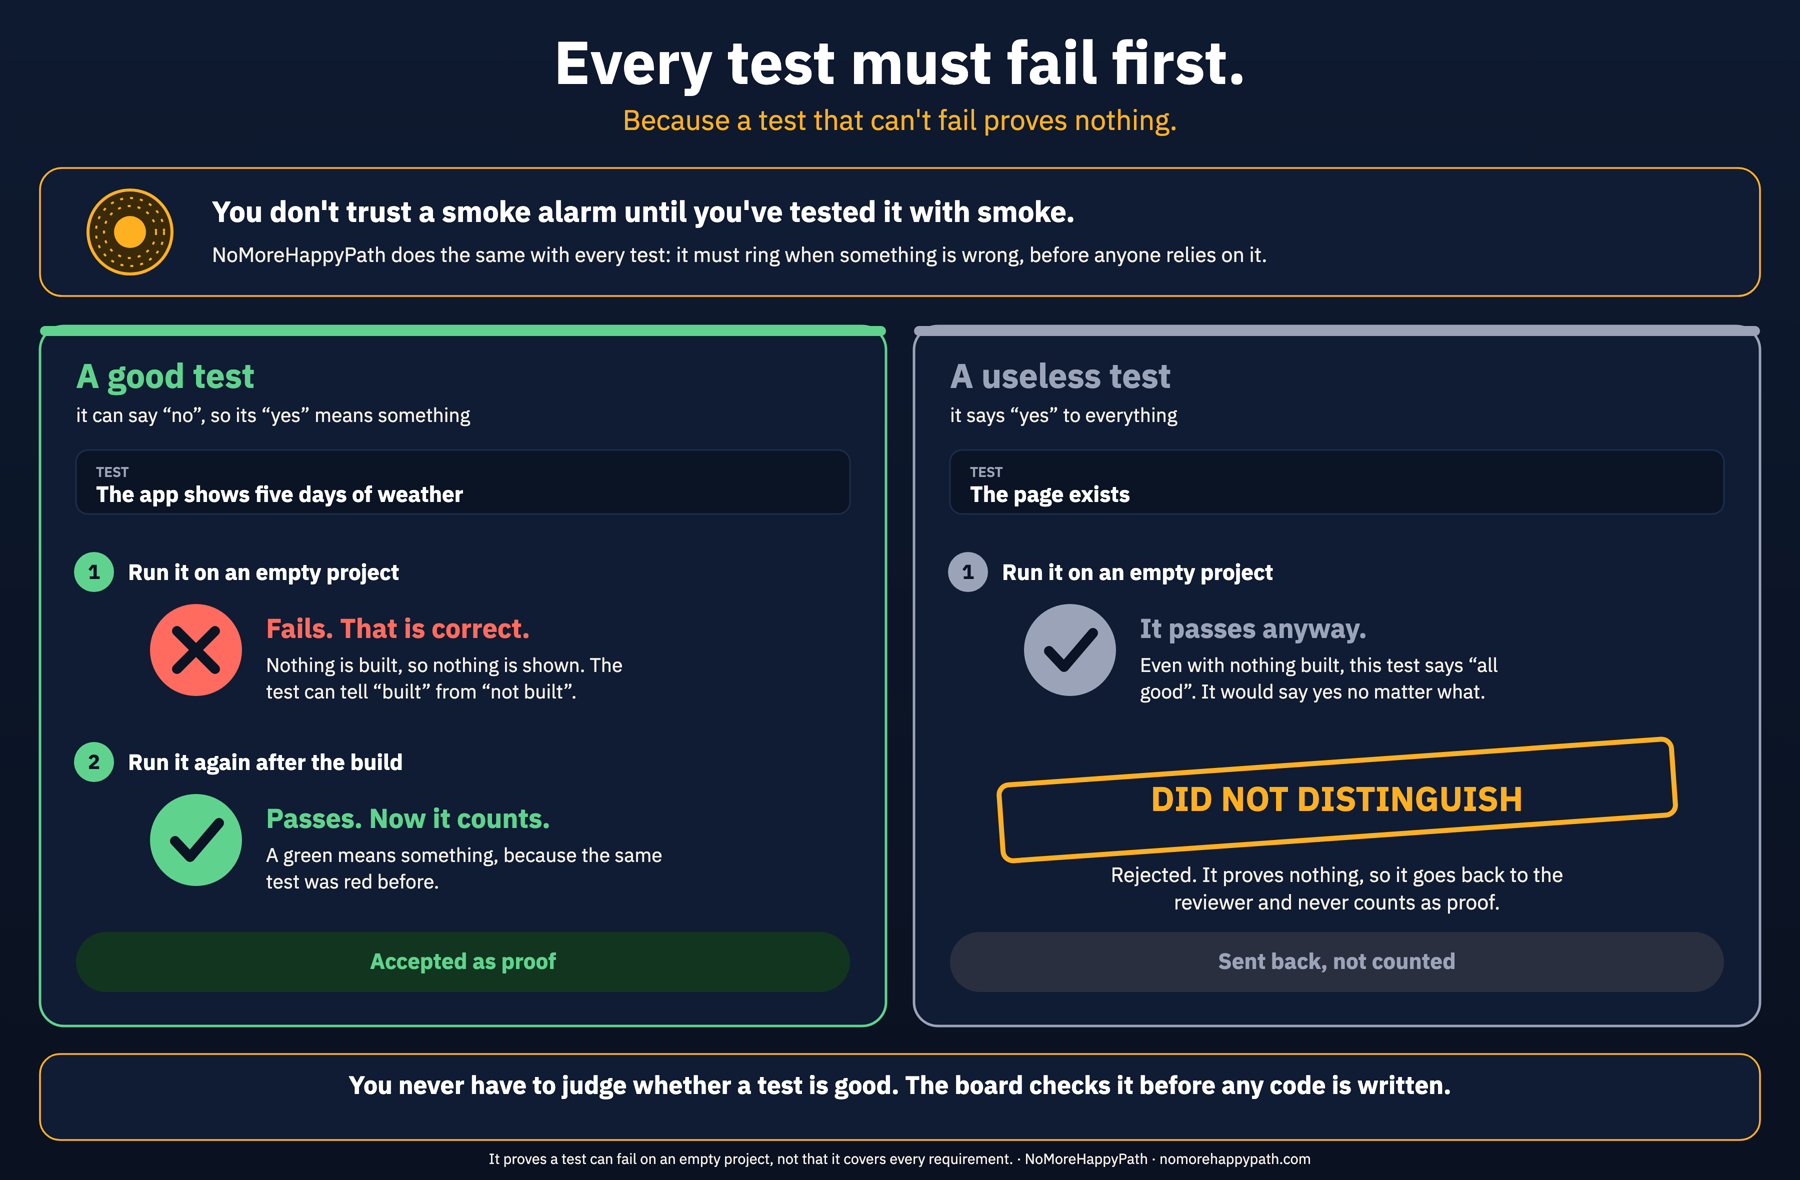
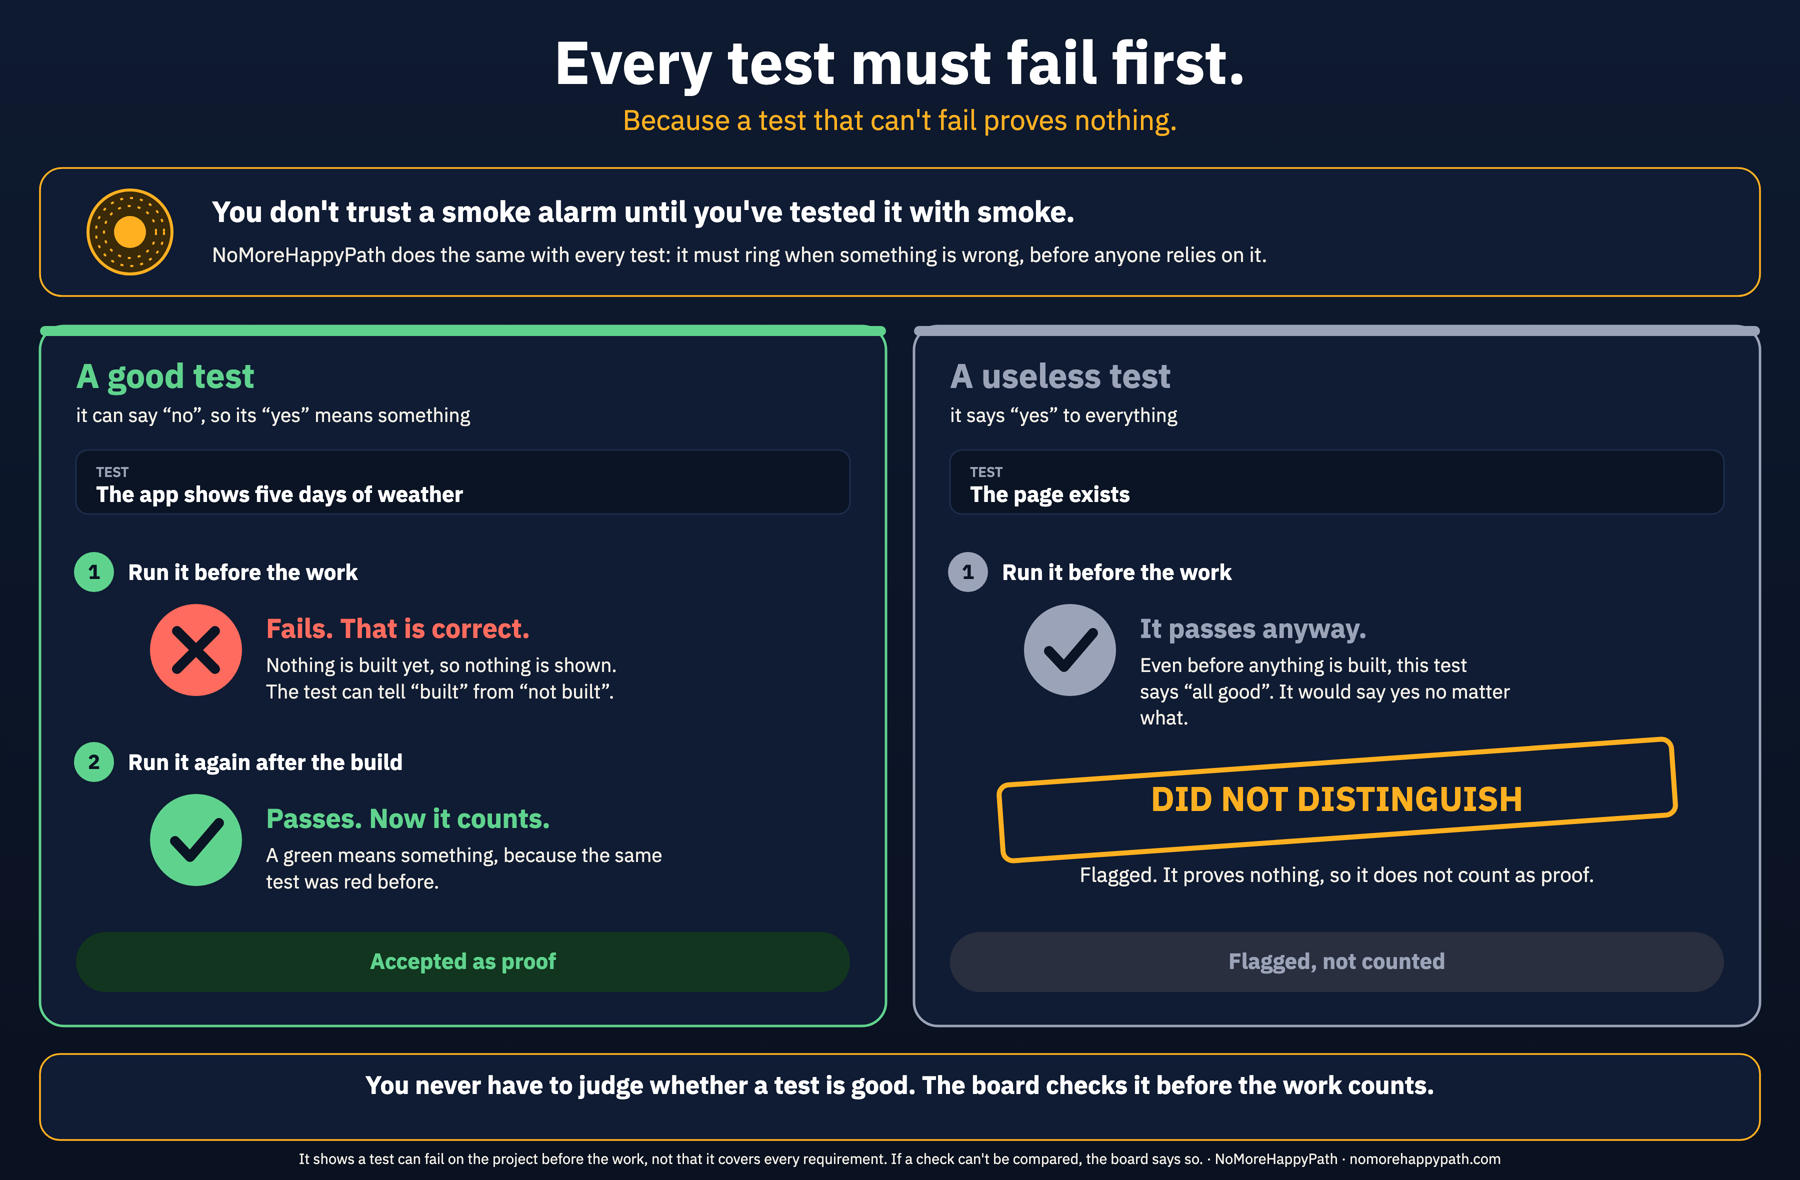
Make the test claims exact: tests are fingerprinted and changes recorded; the red proof runs on the project before the work

diff --git a/index.html b/index.html
@@ -242,7 +242,7 @@
       <h2>From a sentence to software you can hand to a customer</h2>
       <div class="flow">
         <div class="flow-d">
-          <a class="zoom" href="assets/process-infographic.png" target="_blank" rel="noopener"><img src="assets/process-infographic.png" width="1800" height="1628" loading="lazy" alt="Twenty steps in six phases. Frame it: you describe the task, the reviewer frames it with up to four multiple-choice questions, you approve a plain-words contract. Prove the tests can fail: the reviewer writes the tests first, the board locks them and checks they fail on the empty project. Plan and build: the builder plans, builds to the locked tests and runs every scenario. Prove it works: the board runs the locked tests, the reviewer runs its own challenges and reviews in rounds, the builder repairs. If it gets stuck: one retry by the reviewer or a fresh builder on a higher model, otherwise could not finish. Decide: a final gate, then you accept or not, and accepted work lands."></a>
+          <a class="zoom" href="assets/process-infographic.png" target="_blank" rel="noopener"><img src="assets/process-infographic.png" width="1800" height="1628" loading="lazy" alt="Twenty steps in six phases. Frame it: you describe the task, the reviewer frames it with up to four multiple-choice questions, you approve a plain-words contract. Prove the tests can fail: the reviewer writes the tests first, the board locks them and checks they fail on the project as it was before the work. Plan and build: the builder plans, builds to the locked tests and runs every scenario. Prove it works: the board runs the locked tests, the reviewer runs its own challenges and reviews in rounds, the builder repairs. If it gets stuck: one retry by the reviewer or a fresh builder on a higher model, otherwise could not finish. Decide: a final gate, then you accept or not, and accepted work lands."></a>
           <p class="hint">Click the image to open it full size.</p>
         </div>
         <div class="flow-m">
@@ -253,8 +253,8 @@
           <li class="you"><small>You</small><b data-n="3">Approve the contract</b><span>In plain words, with a “what will be tested” list.</span></li>
           <li class="phase"><b>2. Prove the tests can fail</b></li>
           <li class="reviewer"><small>Reviewer</small><b data-n="4">Writes the tests first</b><span>From the contract, before any code exists.</span></li>
-          <li class="board"><small>Board</small><b data-n="5">Locks the tests</b><span>Tamper-proof: nobody can edit them.</span></li>
-          <li class="board"><small>Board</small><b data-n="6">Red proof</b><span>Tests must FAIL on the empty project. A test that passes on nothing is flagged “did not distinguish” and sent back.</span></li>
+          <li class="board"><small>Board</small><b data-n="5">Locks the tests</b><span>Stored with a fingerprint (SHA-256). Any change is recorded.</span></li>
+          <li class="board"><small>Board</small><b data-n="6">Red proof</b><span>Run on the project as it was before the work began. A test that passes there is flagged “did not distinguish” and does not count.</span></li>
           <li class="phase"><b>3. Plan and build</b></li>
           <li class="builder"><small>Builder</small><b data-n="7">Plans the work</b><span>A Scenario Ledger and an evidence contract. Independent parts run in parallel.</span></li>
           <li class="builder"><small>Builder</small><b data-n="8">Builds</b><span>To the locked tests.</span></li>
@@ -280,17 +280,17 @@
       <div class="flow zoomin">
         <div class="kicker">Zoom in on step 6</div>
         <h3>Why every test must fail first</h3>
-        <p class="lead">You don't trust a smoke alarm until you've tested it with smoke. NoMoreHappyPath does the same with every test: before anything is built, the board runs the reviewer's tests on an empty project. A test that can't fail proves nothing.</p>
+        <p class="lead">You don't trust a smoke alarm until you've tested it with smoke. NoMoreHappyPath does the same with every test: before the work counts, the board runs the reviewer's tests on the project as it was before the work. A test that can't fail proves nothing.</p>
         <div class="flow-d">
-          <a class="zoom" href="assets/red-proof.png" target="_blank" rel="noopener"><img src="assets/red-proof.png" width="1800" height="1180" loading="lazy" alt="Two tests compared. A good test, the app shows five days of weather, fails on an empty project, which is correct, then passes after the build, so it is accepted as proof. A useless test, the page exists, passes even on an empty project, so it is marked did not distinguish, sent back, and never counted."></a>
+          <a class="zoom" href="assets/red-proof.png" target="_blank" rel="noopener"><img src="assets/red-proof.png" width="1800" height="1180" loading="lazy" alt="Two tests compared. A good test, the app shows five days of weather, fails before the work, which is correct, then passes after the build, so it is accepted as proof. A useless test, the page exists, passes even before the work, so it is marked did not distinguish and does not count as proof."></a>
         </div>
         <div class="flow-m">
           <ul class="flow-list proof-m">
-            <li class="board"><b>A good test</b><span>“The app shows five days of weather.” Run on an empty project, it fails. That is correct: it can tell “built” from “not built”. After the build it passes, and now the green means something.</span></li>
-            <li style="border-color:#8a93a8"><b>A useless test</b><span>“The page exists.” It passes even on an empty project, so it proves nothing. It is marked “did not distinguish”, sent back to the reviewer, and never counted as proof.</span></li>
+            <li class="board"><b>A good test</b><span>“The app shows five days of weather.” Run before the work, it fails. That is correct: it can tell “built” from “not built”. After the build it passes, and now the green means something.</span></li>
+            <li style="border-color:#8a93a8"><b>A useless test</b><span>“The page exists.” It passes even before anything is built, so it proves nothing. It is flagged “did not distinguish” and does not count as proof.</span></li>
           </ul>
         </div>
-        <p class="fine">It proves a test can fail on an empty project, not that it covers every requirement.</p>
+        <p class="fine">It shows a test can fail before the work, not that it covers every requirement. If a check can't be compared, the board says so.</p>
       </div>
     </div>
   </section>
